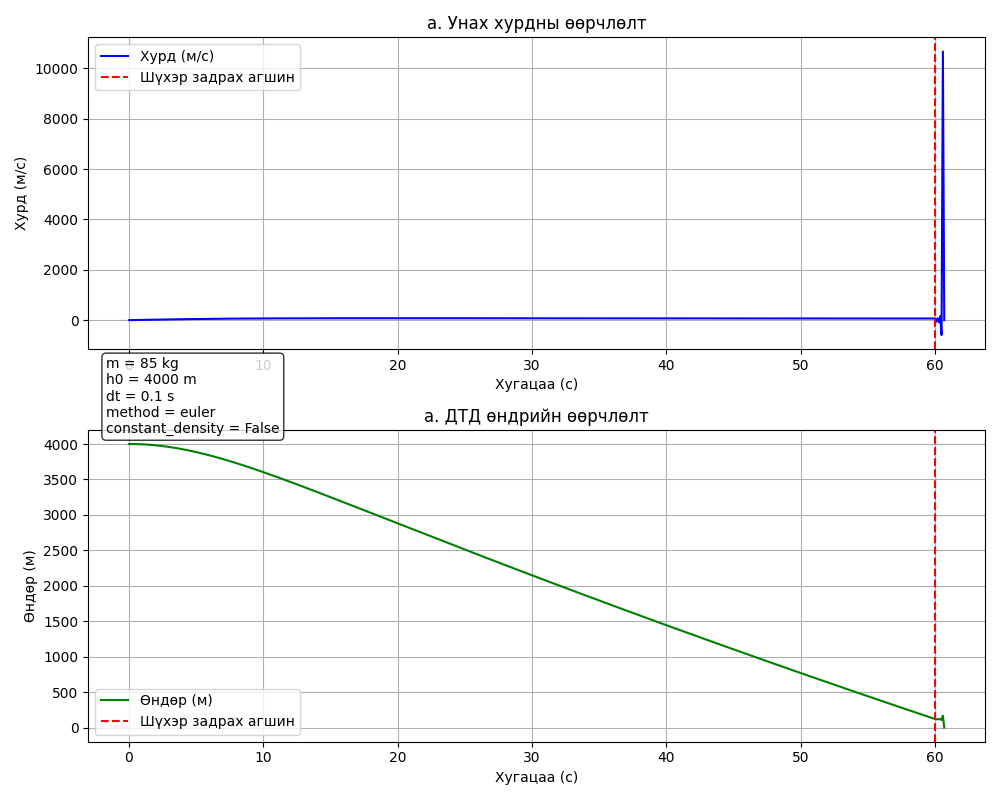
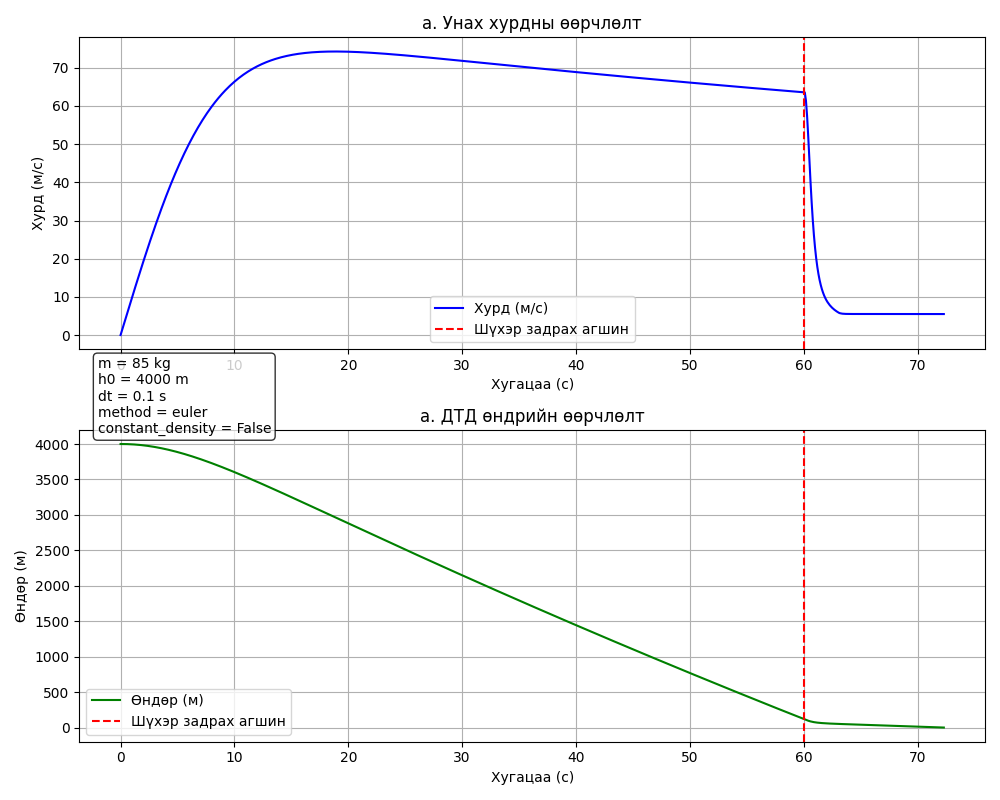
Visualization.py тест хийж туршин ганц хоёр юм засах

diff --git a/src/visualization.py b/src/visualization.py
@@ -104,8 +104,9 @@ def plot_t_zadrah():
     
     plt.figure(figsize=(10, 6))
     for t_zadrah in t_shuher_zadrahs:
-        t, v, h = simulate_jump(m=85, h0=4000, t_shuher_zadrah=t_zadrah, dt=delta_t_s[2], method='euler', constant_density=False)
-        plt.plot(t, v, label=f't_shuher_zadrah={t_zadrah} с')
+        t, v, h = simulate_jump(m=85, h0=4000, t_shuher_zadrah=t_zadrah, dt=delta_t_s[1], method='euler', constant_density=False)
+
+        plt.plot(t, v, label=f'Шүхэр задрах хугацаа={t_zadrah}с\nГазарт унах хурд= {v[-1]} м/с')
         plt.axvline(x=t_zadrah, color='k', linestyle='--', alpha=0.5)
         
     plt.title('d. Шүхэр задрах хугацааны нөлөө')
@@ -114,9 +115,9 @@ def plot_t_zadrah():
     plt.grid(True)
     plt.legend()
     param_text = (
-        f"m = {masses[2]} kg\n"
+        f"m = 85 kg\n"
         f"h0 = 4000 m\n"
-        f"dt = {delta_t_s[0]} s\n"
+        f"dt = {delta_t_s[1]} s\n"
         f"method = euler\n"
         f"constant_density = False"
     )
@@ -138,7 +139,7 @@ def plot_mass_analysis():
     
     plt.figure(figsize=(10, 6))
     for mass in masses:
-        t, v, h = simulate_jump(m=mass, h0=4000, t_shuher_zadrah=60, dt=delta_t_s[2], method='euler', constant_density=False)
+        t, v, h = simulate_jump(m=mass, h0=4000, t_shuher_zadrah=60, dt=delta_t_s[1], method='euler', constant_density=False)
         plt.plot(t, h, label=f'm={mass} кг')
         
     plt.axvline(x=60, color='k', linestyle='--', alpha=0.5)
@@ -149,7 +150,7 @@ def plot_mass_analysis():
     plt.legend()
     param_text = (
         f"h0 = 4000 m\n"
-        f"dt = {delta_t_s[2]} s\n"
+        f"dt = {delta_t_s[1]} s\n"
         f"method = euler\n"
         f"constant_density = False"
     )
@@ -171,7 +172,7 @@ def plot_height_ylgaa():
     ''' Анхны өндөр өөрчлөгдөхөд ямар ялгаа гарах талаар харуулна.'''
     plt.figure(figsize=(10, 6))
     for height in initial_heights:
-        t, v, h = simulate_jump(m=85, h0=height, t_shuher_zadrah=60, dt=delta_t_s[2], method='euler', constant_density=False)
+        t, v, h = simulate_jump(m=85, h0=height, t_shuher_zadrah=60, dt=delta_t_s[1], method='euler', constant_density=False)
         plt.plot(t, h, label=f'h0={height} m')
     plt.axvline(x=60, color='k', linestyle='--', alpha=0.5)
     plt.title('e. Ялгаатай өндрөөс үсрэх үед')
@@ -180,8 +181,8 @@ def plot_height_ylgaa():
     plt.grid(True)
     plt.legend()
     param_text = (
-        f"m = {85} kg\n"
-        f"dt = {delta_t_s[2]} s\n"
+        f"m = 85 kg\n"
+        f"dt = {delta_t_s[1]} s\n"
         f"method = euler\n"
         f"constant_density = False"
     )
